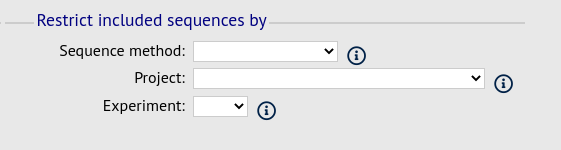
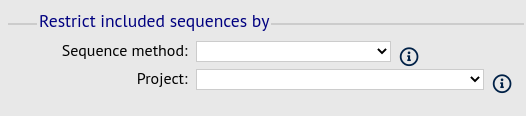
Remove experiments.

Changed region(s): [[0.0913, 0.2845, 0.9734, 0.8017], [0.0, 0.0776, 1.0, 0.2586], [0.1825, 0.6207, 0.365, 0.75]]

diff --git a/conf.py b/conf.py
@@ -54,9 +54,9 @@ copyright = u'2014-2021, Keith Jolley'
 # built documents.
 #
 # The short X.Y version.
-version = '1.30.0'
+version = '1.31.0'
 # The full version, including alpha/beta/rc tags.
-release = '1.30.0'
+release = '1.31.0'
 
 # The language for content autogenerated by Sphinx. Refer to documentation
 # for a list of supported languages.

diff --git a/curator_guide/0160_uploading_contigs.rst b/curator_guide/0160_uploading_contigs.rst
@@ -54,12 +54,6 @@ On the upload form, you can select to filter out short sequences or those
 containing only homopolymeric repeats (which can be artefactually produced
 by some assembler software versions) from your contig list.
 
-If your database has experiments defined (experiments are used for grouping 
-sequences and can be used to filter the sequences used in 
-:ref:`tag scanning <tag_scanning>`), you can also choose to upload your contigs
-as part of an experiment. To do this, select the experiment from the dropdown 
-list box.
-
 .. image:: /images/curation/upload_contigs9.png
 
 .. _upload_contigs_batch:

diff --git a/administration.rst b/administration.rst
@@ -76,8 +76,6 @@ Individual permissions can be set for each curator:
 * modify_schemes - allowed to add or modify schemes.
 * modify_sequences - allowed to add sequences to the sequence bin (for isolate
   databases) or new allele definitions (for sequence definition databases).
-* modify_experiments - define new experiments that can be used to group contigs
-  uploaded to the sequence bin.
 * modify_isolates - allowed to add or modify isolate records.
 * modify_projects - allowed to create projects, modify their descriptions and
   add or remove isolate records to these.

diff --git a/data_analysis/genome_comparator.rst b/data_analysis/genome_comparator.rst
@@ -211,9 +211,6 @@ Available options are:
   contigs were uploaded.
 * Project - Only include isolates belonging to the chosen project.  This 
   enables you to select all isolates and filter to a project.
-* Experiment - Contig files can belong to an experiment.  How this is used can
-  vary between databases, but this enables you to only include contigs from a 
-  particular experiment.
 
 Understanding the output
 ========================

diff --git a/data_analysis/blast.rst b/data_analysis/blast.rst
@@ -106,6 +106,3 @@ Available options are:
   contigs were uploaded.
 * Project - Only include isolates belonging to the chosen project. This 
   enables you to select all isolates and filter to a project.
-* Experiment - Contig files can belong to an experiment. How this is used can
-  vary between databases, but this enables you to only include contigs from a 
-  particular experiment.
